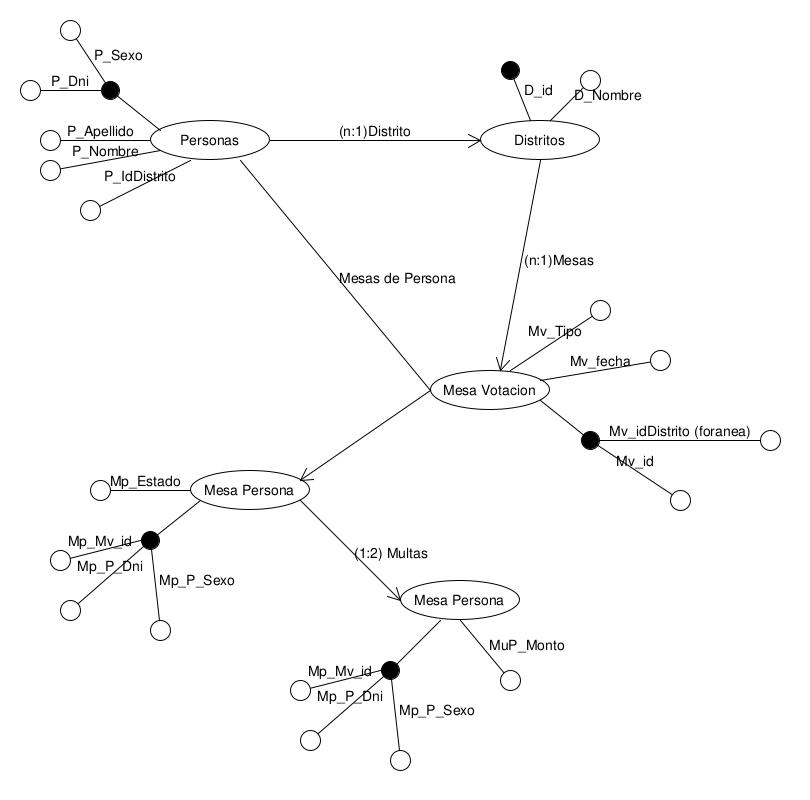
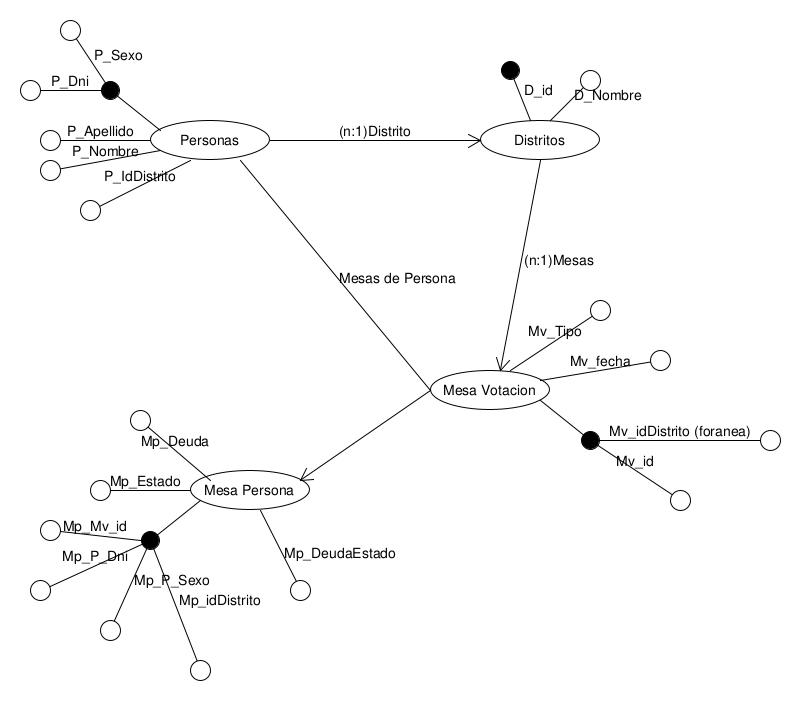
Conexion actualizada
Ya devuelve todas las mesas de una persona

diff --git a/conexion.php b/conexion.php
@@ -12,7 +12,9 @@ function buscar($dni, $sexo, $prov){
    $con = conectar();
    $resul = mysqli_query($con,"SELECT 1 FROM Personas WHERE P_Dni=$dni AND P_Sexo='$sexo' AND P_IdDistrito=$prov");
    if(mysqli_num_rows($resul)){
-      echo '<script>alert("SE ENCUENTRA REGISTRADO!")</script>';
+//      echo '<script>alert("SE ENCUENTRA REGISTRADO!")</script>';
+      //Llamar a la pagina correspondiente y la funcion listar()
+      listar($dni,$sexo,$prov);
    }
    else{
       switch($prov){
@@ -42,8 +44,16 @@ function buscar($dni, $sexo, $prov){
 	 case "24": $distrito="TIERRA DEL FUEGO"; break;
 	 case "30": $distrito="ARGENTINOS EN EL EXTERIOR"; break;
       }
-	
-    echo '<div class="alert alert-danger text-center shadow" role="alert"><div class="col-md-12 text-center"><i class="fas fa-times-circle fa-3x" style="color:red;"></i></div><h3>La matrícula ['.$dni.' '.$sexo.' ] no se ha localizado<br>en el padrón del distrito [ '.$distrito.' ]</h3><br>Si considera que esta situación es debido a un error u omisión en el <br>Registro Nacional de Electores, consulta a la Secretaria Electoral del distrito ó a la Cámara Nacional Electoral<br>Muchas gracias</div>';
+      echo '<div class="alert alert-danger text-center shadow" role="alert"><div class="col-md-12 text-center"><i class="fas fa-times-circle fa-3x" style="color:red;"></i></div><h3>La matrícula ['.$dni.' '.$sexo.' ] no se ha localizado<br>en el padrón del distrito [ '.$distrito.' ]</h3><br>Si considera que esta situación es debido a un error u omisión en el <br>Registro Nacional de Electores, consulta a la Secretaria Electoral del distrito ó a la Cámara Nacional Electoral<br>Muchas gracias</div>';
+      mysqli_close($con);
+   }
+}
+
+function listar($dni,$sexo,$prov){
+   $con = conectar();
+   $resul = mysqli_query($con,"SELECT * FROM Mesa_Persona MP, Mesa_Votacion MV WHERE Mp_P_Dni=$dni AND Mp_P_Sexo='$sexo' AND Mp_D_id=$prov AND MV.Mv_id = MP.Mp_Mv_id");
+   while($consulta = mysqli_fetch_array($resul)){
+      echo $consulta['Mp_Deuda'];
    }
 }
 ?>
